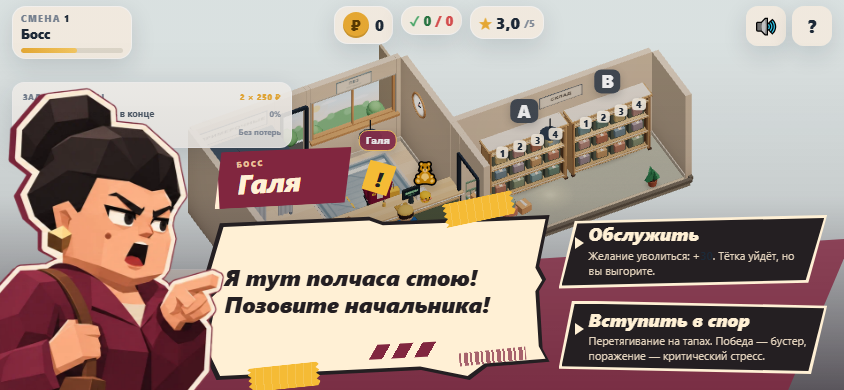
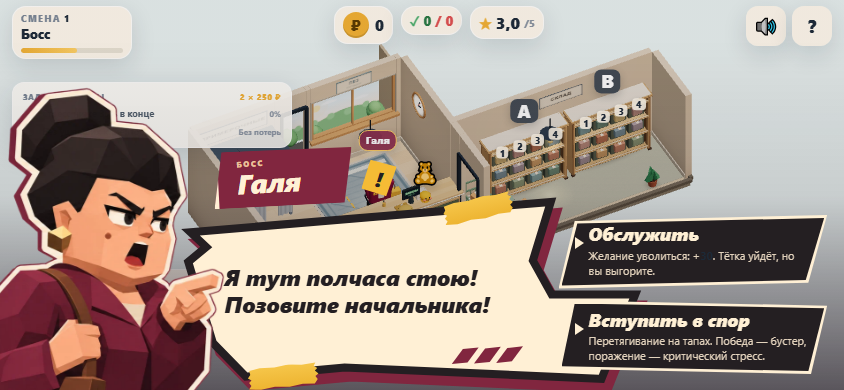
style: trace Galya speech silhouette with layered SVG geometry

Changed region(s): [[0.2156, 0.4923, 1.0, 1.0], [0.4621, 0.4615, 0.4929, 0.4923]]

diff --git a/src/ui/bossDialogue.css b/src/ui/bossDialogue.css
@@ -1,5 +1,6 @@
 /* A cut-paper stage over the actual PVZ. No canvas, blur or fullscreen flashes. */
 .dialogue-portrait,
+.dialogue-frame,
 .dialogue-trim {
   display: none;
 }
@@ -32,7 +33,8 @@ body.in-boss-dialogue .client-bubble {
   max-width: none;
 }
 
-.dialogue-scene .boss-stage::before {
+/* The existing family-dialogue composition has no speech frame and keeps its backdrop. */
+.dialogue-scene[data-dialogue-mode='final'] .boss-stage::before {
   content: '';
   position: absolute;
   inset: auto -3vw -60px 8vw;
@@ -163,57 +165,49 @@ body.in-boss-dialogue .client-bubble {
   border: 0;
   border-radius: 0;
   color: var(--dialogue-ink);
-  background: var(--dialogue-ink);
-  clip-path: polygon(
-    5% 5%,
-    48% 1%,
-    52% 4%,
-    100% 0,
-    97% 31%,
-    99% 39%,
-    97% 46%,
-    98% 81%,
-    100% 89%,
-    82% 92%,
-    77% 100%,
-    63% 94%,
-    4% 100%,
-    0 82%,
-    2% 61%,
-    0 53%,
-    3% 47%,
-    1% 34%
-  );
+  background: none;
   font-size: clamp(23px, 2.25vw, 38px);
   font-style: italic;
   font-weight: 900;
   line-height: 1.2;
   overflow-wrap: anywhere;
 }
-.dialogue-scene .boss-quote::before {
-  content: '';
+/* One coordinate-defined silhouette, reused for the wine backing, ink and paper. */
+.dialogue-scene .dialogue-frame {
   position: absolute;
-  inset: 4px;
+  grid-area: quote;
+  display: block;
+  left: -18px;
+  top: -18px;
+  width: calc(125% + 24px);
+  height: calc(100% + 30px);
+  overflow: visible;
+  pointer-events: none;
   z-index: -1;
-  background: var(--dialogue-cream);
-  clip-path: inherit;
 }
-.dialogue-scene .boss-quote::after {
-  content: '';
-  position: absolute;
-  right: 24px;
-  bottom: 17px;
-  width: 67px;
-  height: 13px;
-  background: repeating-linear-gradient(
-    90deg,
-    var(--dialogue-wine) 0 2px,
-    transparent 2px 5px,
-    var(--dialogue-wine) 5px 9px,
-    transparent 9px 11px
-  );
-  transform: rotate(-6deg);
-  opacity: 0.7;
+.dialogue-frame-shadow,
+.dialogue-frame-outline {
+  stroke-width: 16px;
+  vector-effect: non-scaling-stroke;
+  stroke-linejoin: miter;
+  stroke-miterlimit: 3;
+}
+.dialogue-frame-shadow {
+  fill: var(--dialogue-wine);
+  stroke: var(--dialogue-wine);
+}
+.dialogue-frame-outline {
+  fill: var(--dialogue-ink);
+  stroke: var(--dialogue-ink);
+}
+.dialogue-frame-paper {
+  fill: var(--dialogue-cream);
+}
+.dialogue-frame-slashes {
+  fill: var(--dialogue-wine);
+}
+.dialogue-frame-compact {
+  display: none;
 }
 
 /* Separate, non-interactive paper trim can cross the clipped speech-card edges. */
@@ -225,6 +219,7 @@ body.in-boss-dialogue .client-bubble {
   pointer-events: none;
   z-index: 3;
 }
+.dialogue-scene[data-dialogue-mode='final'] .dialogue-frame,
 .dialogue-scene[data-dialogue-mode='final'] .dialogue-trim {
   display: none;
 }
@@ -232,29 +227,6 @@ body.in-boss-dialogue .client-bubble {
   position: absolute;
   width: clamp(72px, 7vw, 110px);
   height: 24px;
-  background: var(--dialogue-gold);
-  background-image: repeating-linear-gradient(94deg, #fff2 0 1px, transparent 1px 8px);
-  clip-path: polygon(
-    4% 0,
-    96% 0,
-    100% 10%,
-    95% 22%,
-    100% 34%,
-    95% 46%,
-    100% 58%,
-    95% 70%,
-    100% 82%,
-    96% 100%,
-    0 100%,
-    5% 88%,
-    0 76%,
-    5% 64%,
-    0 52%,
-    5% 40%,
-    0 28%,
-    5% 16%,
-    0 8%
-  );
 }
 .dialogue-tape.top {
   top: -18px;
@@ -266,16 +238,6 @@ body.in-boss-dialogue .client-bubble {
   left: 13%;
   transform: rotate(-6deg);
 }
-.dialogue-slashes {
-  position: absolute;
-  right: 112px;
-  bottom: 22px;
-  width: 64px;
-  height: 15px;
-  background: repeating-linear-gradient(90deg, var(--dialogue-wine) 0 13px, transparent 13px 22px);
-  transform: skewX(-32deg) rotate(-3deg);
-}
-
 .dialogue-scene #boss-choice-view {
   grid-area: choices;
   gap: 12px;
@@ -565,6 +527,21 @@ body.in-boss-dialogue .client-bubble {
 }
 
 @media (max-width: 620px) and (orientation: portrait) {
+  .dialogue-scene .dialogue-frame {
+    left: -10px;
+    width: calc(100% + 12px);
+  }
+  .dialogue-frame-wide {
+    display: none;
+  }
+  .dialogue-frame-compact {
+    display: block;
+  }
+  .dialogue-frame-shadow,
+  .dialogue-frame-outline {
+    stroke-width: 12px;
+  }
+
   .dialogue-scene .boss-stage {
     display: block;
     inset: auto 14px max(18px, env(safe-area-inset-bottom)) 14px;

diff --git a/index.html b/index.html
@@ -240,11 +240,37 @@
               <div class="boss-badge" id="boss-badge">!</div>
             </div>
 
+            <svg class="dialogue-frame" viewBox="345 600 990 350" preserveAspectRatio="none" aria-hidden="true" focusable="false">
+              <defs>
+                <!-- Traced in the supplied 1672 × 941 reference's image coordinates. -->
+                <path id="galya-frame-wide" vector-effect="non-scaling-stroke" d="M377 669 L1124 617 L1088 715 L1133 782 L1306 782 L1240 919 L690 899 L480 915 L413 858 L362 719 L404 690 Z" />
+                <!-- Portrait keeps the same left fold/base; the right shoulder folds inward to fit. -->
+                <path id="galya-frame-compact" vector-effect="non-scaling-stroke" d="M377 669 L1300 617 L1273 715 L1300 782 L1314 782 L1290 919 L690 899 L480 915 L413 858 L362 719 L404 690 Z" />
+                <path id="galya-tape-edge" d="M3 3 L19 1 L41 2 L62 0 L82 2 L103 1 L100 5 L105 8 L101 11 L106 15 L101 18 L104 22 L99 27 L81 26 L61 28 L39 26 L18 28 L0 26 L4 22 L1 18 L5 15 L0 12 L4 8 Z" />
+                <linearGradient id="galya-tape-color" x1="0" y1="0" x2="0" y2="1" gradientUnits="objectBoundingBox">
+                  <stop stop-color="#f6c64a" /><stop offset="1" stop-color="#edb431" />
+                </linearGradient>
+              </defs>
+              <g class="dialogue-frame-wide">
+                <use href="#galya-frame-wide" class="dialogue-frame-shadow" transform="translate(14 18)" />
+                <use href="#galya-frame-wide" class="dialogue-frame-outline" />
+                <use href="#galya-frame-wide" class="dialogue-frame-paper" />
+              </g>
+              <g class="dialogue-frame-compact">
+                <use href="#galya-frame-compact" class="dialogue-frame-shadow" transform="translate(14 18)" />
+                <use href="#galya-frame-compact" class="dialogue-frame-outline" />
+                <use href="#galya-frame-compact" class="dialogue-frame-paper" />
+              </g>
+              <g class="dialogue-frame-slashes">
+                <polygon points="922,900 946,873 980,870 956,897" />
+                <polygon points="970,899 994,872 1028,869 1004,896" />
+                <polygon points="1018,898 1042,871 1076,868 1052,895" />
+              </g>
+            </svg>
             <div class="boss-quote" id="boss-quote">Вы вообще работаете? Мне быстро надо!</div>
             <div class="dialogue-trim" aria-hidden="true">
-              <i class="dialogue-tape top"></i>
-              <i class="dialogue-tape bottom"></i>
-              <i class="dialogue-slashes"></i>
+              <svg class="dialogue-tape top" viewBox="0 0 108 30" preserveAspectRatio="none" focusable="false"><use href="#galya-tape-edge" fill="url(#galya-tape-color)" /></svg>
+              <svg class="dialogue-tape bottom" viewBox="0 0 108 30" preserveAspectRatio="none" focusable="false"><use href="#galya-tape-edge" fill="url(#galya-tape-color)" /></svg>
             </div>
 
             <div id="boss-choice-view">

diff --git a/docs/GALYA_DIALOGUE_SCENE.md b/docs/GALYA_DIALOGUE_SCENE.md
@@ -5,7 +5,7 @@
 ## Что изменено
 
 - Большой портрет с тремя выражениями: недовольство, крик, удивление. Бордовый жакет, чёрный пучок, золотые серьги и внешность согласованы с текущей Галей/референсом.
-- Нижняя композиция с угловатой кремовой репликой, именной плашкой, бордовыми бумажными слоями, штрихкодом и жёлтым акцентом. Игра остаётся настоящим видимым фоном, камера и Three.js-сцена не меняются.
+- Нижняя композиция с угловатой кремовой репликой, именной плашкой, бордовыми бумажными слоями, тремя диагональными штрихами и жёлтым акцентом. Игра остаётся настоящим видимым фоном, камера и Three.js-сцена не меняются.
 - Въезд портрета/панели — 330–440 мс, локальные графические акценты — 340–380 мс, встряхивание — 210 мс / 3 px. Новых бесконечных анимаций, fullscreen-вспышек и backdrop blur нет. `prefers-reduced-motion` отключает входы, встряхивание и эффекты.
 - Наведение, focus и нажатие выделяют угловатые варианты ответов. Сохранены **исходные** «Обслужить» / «Вступить в спор», описания последствий и callback-и; новые реплики из референса не добавлялись.
 - Таунт спора выводится крупно; удивление появляется при перевесе игрока, с гистерезисом .55/.35, чтобы портрет не дрожал между эмоциями от pushback. Эмоция результата не перезаписывается поздними обновлениями шкалы.
@@ -30,12 +30,23 @@
 
 [Телефон, landscape](screenshots/galya/choice-landscape.png) · [Телефон, portrait](screenshots/galya/choice-portrait.png)
 
-## Уточнение после одобрения образа
+## SVG-силуэт по референсу
 
-- У основной реплики уточнён ломаный контур: ступенька сверху, боковые вырезы и асимметричный нижний край. Внутренние отступы защищают текст от срезов.
-- У двух ответов усилены скосы в разных направлениях; обводка и hover/focus следуют форме кнопок.
-- Добавлены два кусочка жёлтого скотча с рваными краями и три бордовых комиксных штриха рядом со штрихкодом. Декор находится в отдельном `aria-hidden` слое с `pointer-events: none` и не перекрывает ввод.
-- Это CSS/HTML-уточнение: портреты, реплики, callback-и и анимации не менялись, новых ассетов/эффектов не добавлено. Скриншоты desktop/landscape/portrait, спора и результата обновлены. Perf-метрики ниже относятся к исходному проходу `751c19d`; для этого статичного уточнения повторяются build, unit и весь e2e.
+Основная бумажная форма вынесена в отдельный inline SVG в index.html. CSS-прямоугольник/clip-path основной реплики удалён. Опорные точки записаны в координатах прикреплённого референса 1672×941:
+
+```svg
+<path id="galya-frame-wide" d="M377 669 L1124 617 L1088 715 L1133 782 L1306 782 L1240 919 L690 899 L480 915 L413 858 L362 719 L404 690 Z" />
+```
+
+Это длинная наклонная верхняя грань, левый зигзаг/вырез, глубокий правый излом с плечом под ответами и асимметричная нижняя линия с левым угловатым выступом. Контрольная обводка наложена на исходный фрагмент, чтобы сравнивать именно силуэт:
+
+![Референс и SVG-обводка](screenshots/galya/frame-reference-overlay.png)
+
+- Три слоя используют **один path** через SVG use: бордовая подложка с translate(14,18), толстый почти чёрный контур и кремовая поверхность. Прямоугольной рамки и общей бордовой полосы за окном больше нет; в отдельном семейном экране прежний фон сохранён.
+- Три заметных бордовых штриха — отдельные SVG polygon-параллелограммы, без repeating-gradient. Они находятся в нижней правой части бумаги. Прежняя мелкая имитация штрихкода убрана.
+- Скотч — отдельный нерегулярный SVG path, с разными зубцами на торцах и слегка неровной продольной кромкой; прежняя регулярная полосатая заливка убрана.
+- Текстовый элемент, его размеры/отступы/шрифты, портрет, кнопки и игровая логика сохранены. SVG-плечо заходит под ответы отдельным фоновым слоем, не влияя на grid и hit testing. На portrait используется compact path: левый вырез/нижняя линия сохранены, правое плечо складывается внутрь, чтобы не выходить за экран.
+- SVG и декор имеют aria-hidden/focusable=false/pointer-events:none. Новых анимаций или растровых ассетов нет. Скриншоты desktop/landscape/portrait, спора и результата обновлены. Perf-метрики ниже относятся к исходному проходу `751c19d`; для уточнения формы повторены build, unit и весь e2e.
 
 ## Устройство и расширение
 
